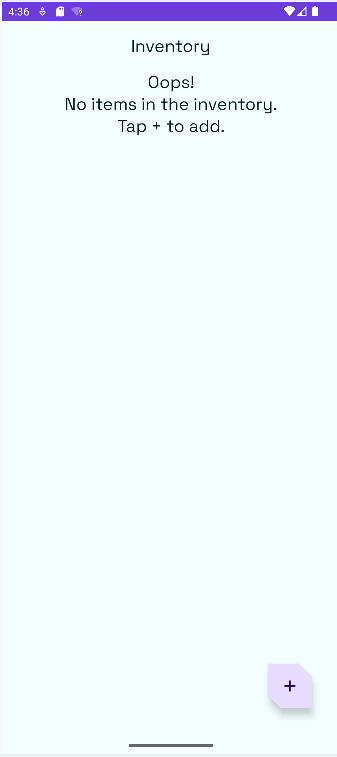
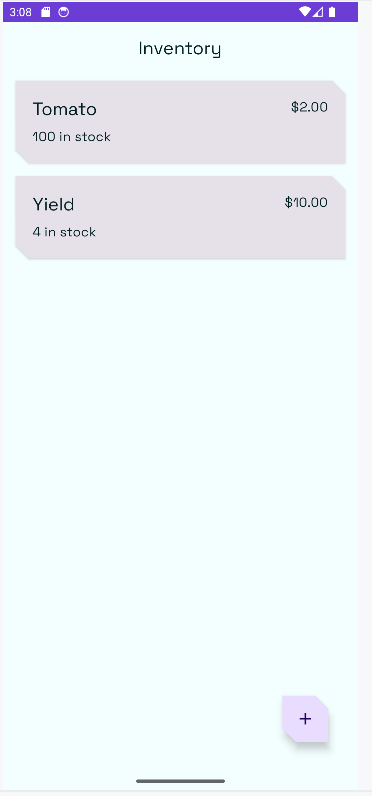
Connected HomeScreen to Room using StateFlow, implemented item entry with validation, and added DAO tests with in-memory database.

diff --git a/app/src/androidTest/java/com/dcac/inventory/ItemDaoTest.kt b/app/src/androidTest/java/com/dcac/inventory/ItemDaoTest.kt
@@ -1,0 +1,73 @@
+package com.dcac.inventory
+
+import android.content.Context
+import androidx.room.Room
+import androidx.test.core.app.ApplicationProvider
+import androidx.test.ext.junit.runners.AndroidJUnit4
+import com.dcac.inventory.data.InventoryDatabase
+import com.dcac.inventory.data.Item
+import com.dcac.inventory.data.ItemDao
+import org.junit.After
+import org.junit.Before
+import org.junit.Test
+import org.junit.runner.RunWith
+import java.io.IOException
+import kotlinx.coroutines.flow.first
+import kotlinx.coroutines.runBlocking
+import org.junit.Assert.assertEquals
+
+@RunWith(AndroidJUnit4::class)
+class ItemDaoTest {
+
+    private lateinit var itemDao: ItemDao
+    private lateinit var inventoryDatabase: InventoryDatabase
+    private var item1 = Item(1, "Apples", 10.0, 20)
+    private var item2 = Item(2, "Bananas", 15.0, 97)
+
+
+    @Before
+    fun createDb() {
+        val context: Context = ApplicationProvider.getApplicationContext()
+        // Using an in-memory database because the information stored here disappears when the
+        // process is killed.
+        inventoryDatabase = Room.inMemoryDatabaseBuilder(context, InventoryDatabase::class.java)
+            // Allowing main thread queries, just for testing.
+            .allowMainThreadQueries()
+            .build()
+        itemDao = inventoryDatabase.itemDao()
+    }
+
+    @After
+    @Throws(IOException::class)
+    fun closeDb() {
+        inventoryDatabase.close()
+    }
+
+    private suspend fun addOneItemToDb() {
+        itemDao.insert(item1)
+    }
+
+    private suspend fun addTwoItemsToDb() {
+        itemDao.insert(item1)
+        itemDao.insert(item2)
+    }
+
+    @Test
+    @Throws(Exception::class)
+    fun daoInsert_insertsItemIntoDB() = runBlocking {
+        addOneItemToDb()
+        val allItems = itemDao.getAllItems().first()
+        assertEquals(allItems[0], item1)
+    }
+
+    @Test
+    @Throws(Exception::class)
+    fun daoGetAllItems_returnsAllItemsFromDB() = runBlocking {
+        addTwoItemsToDb()
+        val allItems = itemDao.getAllItems().first()
+        assertEquals(allItems[0], item1)
+        assertEquals(allItems[1], item2)
+    }
+
+
+}

diff --git a/app/src/main/java/com/dcac/inventory/ui/home/HomeScreen.kt b/app/src/main/java/com/dcac/inventory/ui/home/HomeScreen.kt
@@ -32,12 +32,17 @@ import androidx.compose.ui.res.stringResource
 import androidx.compose.ui.text.style.TextAlign
 import androidx.compose.ui.tooling.preview.Preview
 import androidx.compose.ui.unit.dp
+import androidx.lifecycle.viewmodel.compose.viewModel
 import com.dcac.inventory.InventoryTopAppBar
 import com.dcac.inventory.R
 import com.dcac.inventory.data.Item
+import com.dcac.inventory.ui.AppViewModelProvider
 import com.dcac.inventory.ui.item.formatedPrice
 import com.dcac.inventory.ui.navigation.NavigationDestination
 import com.dcac.inventory.ui.theme.InventoryTheme
+import androidx.compose.runtime.collectAsState
+import androidx.compose.runtime.getValue
+
 
 object HomeDestination : NavigationDestination {
     override val route = "home"
@@ -51,8 +56,11 @@ object HomeDestination : NavigationDestination {
 fun HomeScreen(
     navigateToItemEntry: () -> Unit,
     navigateToItemUpdate: (Int) -> Unit,
-    modifier: Modifier = Modifier
+    modifier: Modifier = Modifier,
+    viewModel: HomeViewModel = viewModel(factory = AppViewModelProvider.Factory)
 ) {
+
+    val homeUiState by viewModel.homeUiState.collectAsState()
     val scrollBehavior = TopAppBarDefaults.enterAlwaysScrollBehavior()
 
     Scaffold(
@@ -78,7 +86,7 @@ fun HomeScreen(
         },
     ) { innerPadding ->
         HomeBody(
-            itemList = listOf(),
+            itemList = homeUiState.itemList,
             onItemClick = navigateToItemUpdate,
             modifier = modifier.fillMaxSize(),
             contentPadding = innerPadding,

diff --git a/app/src/main/java/com/dcac/inventory/ui/item/ItemEntryScreen.kt b/app/src/main/java/com/dcac/inventory/ui/item/ItemEntryScreen.kt
@@ -31,6 +31,8 @@ import com.dcac.inventory.ui.AppViewModelProvider
 import com.dcac.inventory.ui.navigation.NavigationDestination
 import com.dcac.inventory.ui.theme.InventoryTheme
 import java.util.Locale
+import androidx.compose.runtime.rememberCoroutineScope
+import kotlinx.coroutines.launch
 
 object ItemEntryDestination : NavigationDestination {
     override val route = "item_entry"
@@ -45,6 +47,8 @@ fun ItemEntryScreen(
     canNavigateBack: Boolean = true,
     viewModel: ItemEntryViewModel = viewModel(factory = AppViewModelProvider.Factory)
 ) {
+    val coroutineScope = rememberCoroutineScope()
+
     Scaffold(
         topBar = {
             InventoryTopAppBar(
@@ -57,7 +61,12 @@ fun ItemEntryScreen(
         ItemEntryBody(
             itemUiState = viewModel.itemUiState,
             onItemValueChange = viewModel::updateUiState,
-            onSaveClick = { },
+            onSaveClick = {
+                coroutineScope.launch {
+                    viewModel.saveItem()
+                    navigateBack()
+                }
+            },
             modifier = Modifier
                 .padding(
                     start = innerPadding.calculateStartPadding(LocalLayoutDirection.current),

diff --git a/app/src/main/java/com/dcac/inventory/ui/item/ItemEntryViewModel.kt b/app/src/main/java/com/dcac/inventory/ui/item/ItemEntryViewModel.kt
@@ -5,10 +5,13 @@ import androidx.compose.runtime.mutableStateOf
 import androidx.compose.runtime.setValue
 import androidx.lifecycle.ViewModel
 import com.dcac.inventory.data.Item
+import com.dcac.inventory.data.ItemsRepository
 import java.text.NumberFormat
 
 //ViewModel to validate and insert items in the Room database.
-class ItemEntryViewModel : ViewModel() {
+class ItemEntryViewModel(
+    private val itemsRepository: ItemsRepository
+) : ViewModel() {
 
     //Holds current item ui state
     var itemUiState by mutableStateOf(ItemUiState())
@@ -24,6 +27,12 @@ class ItemEntryViewModel : ViewModel() {
     private fun validateInput(uiState: ItemDetails = itemUiState.itemDetails): Boolean {
         return with(uiState) {
             name.isNotBlank() && price.isNotBlank() && quantity.isNotBlank()
+        }
+    }
+
+    suspend fun saveItem() {
+        if (validateInput()) {
+            itemsRepository.insertItem(itemUiState.itemDetails.toItem())
         }
     }
 }

diff --git a/app/src/main/java/com/dcac/inventory/ui/home/HomeViewModel.kt b/app/src/main/java/com/dcac/inventory/ui/home/HomeViewModel.kt
@@ -2,9 +2,24 @@ package com.dcac.inventory.ui.home
 
 import androidx.lifecycle.ViewModel
 import com.dcac.inventory.data.Item
+import com.dcac.inventory.data.ItemsRepository
+import kotlinx.coroutines.flow.StateFlow
+import androidx.lifecycle.viewModelScope
+import kotlinx.coroutines.flow.SharingStarted
+import kotlinx.coroutines.flow.map
+import kotlinx.coroutines.flow.stateIn
 
 // ViewModel to retrieve all items in the Room database.
-class HomeViewModel : ViewModel() {
+class HomeViewModel(itemsRepository: ItemsRepository) : ViewModel() {
+
+    val homeUiState: StateFlow<HomeUiState> =
+        itemsRepository.getAllItemsStream().map { HomeUiState(it) }
+            .stateIn(
+                scope = viewModelScope,
+                started = SharingStarted.WhileSubscribed(TIMEOUT_MILLIS),
+                initialValue = HomeUiState()
+            )
+
     companion object {
         private const val TIMEOUT_MILLIS = 5_000L
     }

diff --git a/app/src/main/java/com/dcac/inventory/ui/AppViewModelProvider.kt b/app/src/main/java/com/dcac/inventory/ui/AppViewModelProvider.kt
@@ -24,7 +24,7 @@ object AppViewModelProvider {
         }
         // Initializer for ItemEntryViewModel
         initializer {
-            ItemEntryViewModel()
+            ItemEntryViewModel(inventoryApplication().container.itemsRepository)
         }
 
         // Initializer for ItemDetailsViewModel
@@ -36,7 +36,7 @@ object AppViewModelProvider {
 
         // Initializer for HomeViewModel
         initializer {
-            HomeViewModel()
+            HomeViewModel(inventoryApplication().container.itemsRepository)
         }
     }
 }

diff --git a/README.md b/README.md
@@ -1,27 +1,27 @@
 # 📚 **Inventory**
-**Inventory** is a modern Android application that allows users to manage a local inventory including adding, editing, selling, and deleting items. This app demonstrates the use of modern Jetpack components including **Room**, **ViewModel**, **StateFlow**, and **Navigation**, and follows the **MVVM** architecture pattern. It leverages **Kotlin Coroutines** for asynchronous operations and persists data locally using an **SQLite database** via the Room persistence library.
+**Inventory** is a modern Android application that allows users to manage a local inventory including adding, editing, selling, and deleting items. This app showcases modern Android development practices using Jetpack components including **Room**, **ViewModel**, **StateFlow**, and **Navigation**, and follows the **MVVM** architecture pattern. It leverages **Kotlin Coroutines** for asynchronous operations and persists data locally using an **SQLite database** via the Room persistence library.
 
 ## ✅ **LAST MAJOR UPDATES**
 
-   - Implemented local database with Room : 
-      - Creating the item entity representing a row in the "items" table.
-      - Defining the ItemDao Dao with basic operations.
-      - Implementing the InventoryDatabase class (singleton) to expose the DAO and manage the database via Room.
-   - Connected `ItemsRepository` to Room DAO for real data operations.
-   - Added functions for insert/update/delete in `OfflineItemsRepository`.
+   - Set up Room database integration with DAO, entities, and a singleton instance.
+   - Implemented item entry UI with form validation and insertion logic.
+   - Connected HomeScreen to Room using `StateFlow` to display live inventory list.
+   - Used Flow and Coroutines for asynchronous DB operations in the ViewModel.
+   - Tested ItemDao operations with an in-memory Room database.
       
 ## ❌ **NEXT UPDATES**
 
-   - Replace mock item list in `HomeScreen` with data from the local database.
-   - Observe item list from database using `Flow` and display reactively.
-   - Implement `ViewModelScope` coroutines for async DB operations.
+   - Add edit item functionality via `ItemEditViewModel` and update UI screen.
+   - Add delete item support from item detail or list view.
+   - Implement sell item logic to decrease quantity.
+   - Enable data restoration after app restart using SavedStateHandle.
 
 ## 📋 **Features**
 
    - 🗂 Manage inventory :
 
-      - 🟩 **IN PROGRESS** Display inventory list stored locally in the Room database.
-      - 🟩 **IN PROGRESS** Add new items with name, price, and quantity.
+      - ✅ **DONE** Display inventory list stored locally in the Room database.
+      - ✅ **DONE** Add new items with name, price, and quantity.
       - 🟩 **IN PROGRESS** Edit existing items via dedicated screen.
       - 🟩 **IN PROGRESS** Delete items permanently from local storage.
       - ❌ **NOT IMPLEMENTED** Sell item to decrease quantity.
@@ -44,13 +44,13 @@
 
    - 🔄 Real-time status management:
 
-      - ❌ **NOT IMPLEMENTED** Use of StateFlow for UI state handling.
+      - 🟩 **IN PROGRESS** Use of StateFlow for UI state handling.
       - ✅ **DONE** ViewModel for lifecycle-aware logic.
       - 🟩 **IN PROGRESS** Coroutines for async data operations.
 
    - 📦 Data Persistence:
 
-      - 🟩 **IN PROGRESS** Persist inventory data locally using Room (SQLite).
+      - ✅ **DONE** Persist inventory data locally using Room (SQLite).
       - ❌ **NOT IMPLEMENTED** Automatically restore inventory after app restart.
 
    - 🧠 Architecture & Code Structure:
@@ -60,12 +60,13 @@
 
    - 🚀 Performance and responsiveness:
    
-      - ❌ **NOT IMPLEMENTED** Optimize UI scrolling and animations.
+      - ✅ **DONE** Optimize UI scrolling and animations.
       
    - 🛠 Error Handling & User Feedback:
 
       - ❌ **NOT IMPLEMENTED** UI instrumented tests.
       - ❌ **NOT IMPLEMENTED** ViewModel and Repository tests.
+      - ✅ **DONE** : Validates Room DAO operations with in-memory database.
 
 ## 🛠 **Tech Stack**
 
@@ -76,23 +77,38 @@
    - **StateFlow**: Reactive state management for real-time updates.
    - **ViewModel**: MVVM architecture to separate business logic from user interface.
    - **Room**: Local database with DAO and entities;
-   - **State Management**: Handle states with MutableStateOf.
+   - **State Management**: Handle states with MutableStateOf and StateFlow.
    - **Navigation Component**: Seamless screen transitions.
    - **Coroutines**: Async programming made simple.
    
 ## 🚀 **How to Use**
    
-   - ❌ **This section has not been implemented yet.**
+1. **Launch the App**:
+   - In android studio, download the code and launch the app on an Android device or emulator. (Bad performance because in Debug Build Variant)
+2. **Use The + Button on the HomeScreen**:
+   - The HomeScreen displays message in case of no item adding.
+   - Click on the Button on the down/right side with the "+".
+3. **Add caracteritics of the item that you want to add**:
+   - Fill all the fields (name, price, quantity)
+   - Click on save to save your item in the database.
+4. **Return to the HomeScreen and see your item are stored**:
+   - The save button clicking will return you automatically on the HomeScreen
+   - You can now see the item displays on the HomeScreen.
+   - Continue to add and store items.
 
 ## 📸 **Screenshots**
 
    - **Home screen**:
    
+      ![Home screen empty](screenshots/home_screen_empty.png)
+
       ![Home screen](screenshots/home_screen.png)
 
    - **Item edit screen**:
    
-      ![Item edit screen](screenshots/item_edit_screen.png)
+      ![Item edit screen](screenshots/edit_screen_empty.png)
+
+      ![Item edit screen](screenshots/edit_screen.png)
 
 
 ## 🤝 **Contributions**
